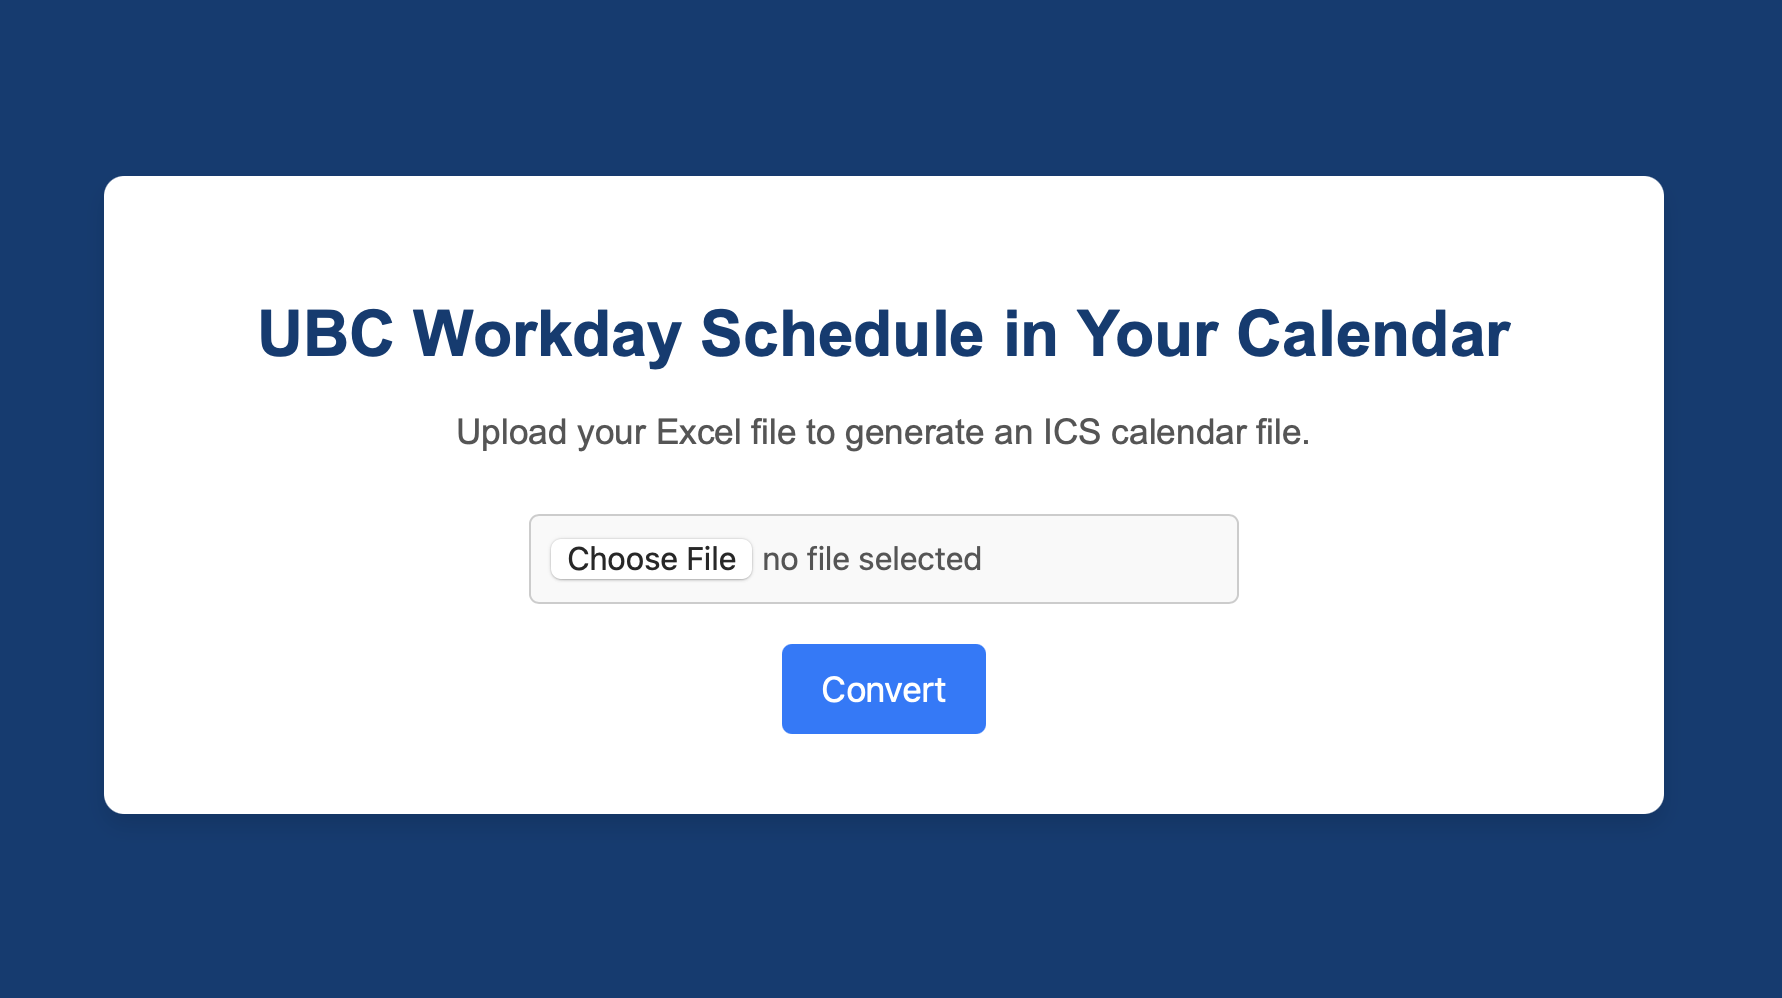
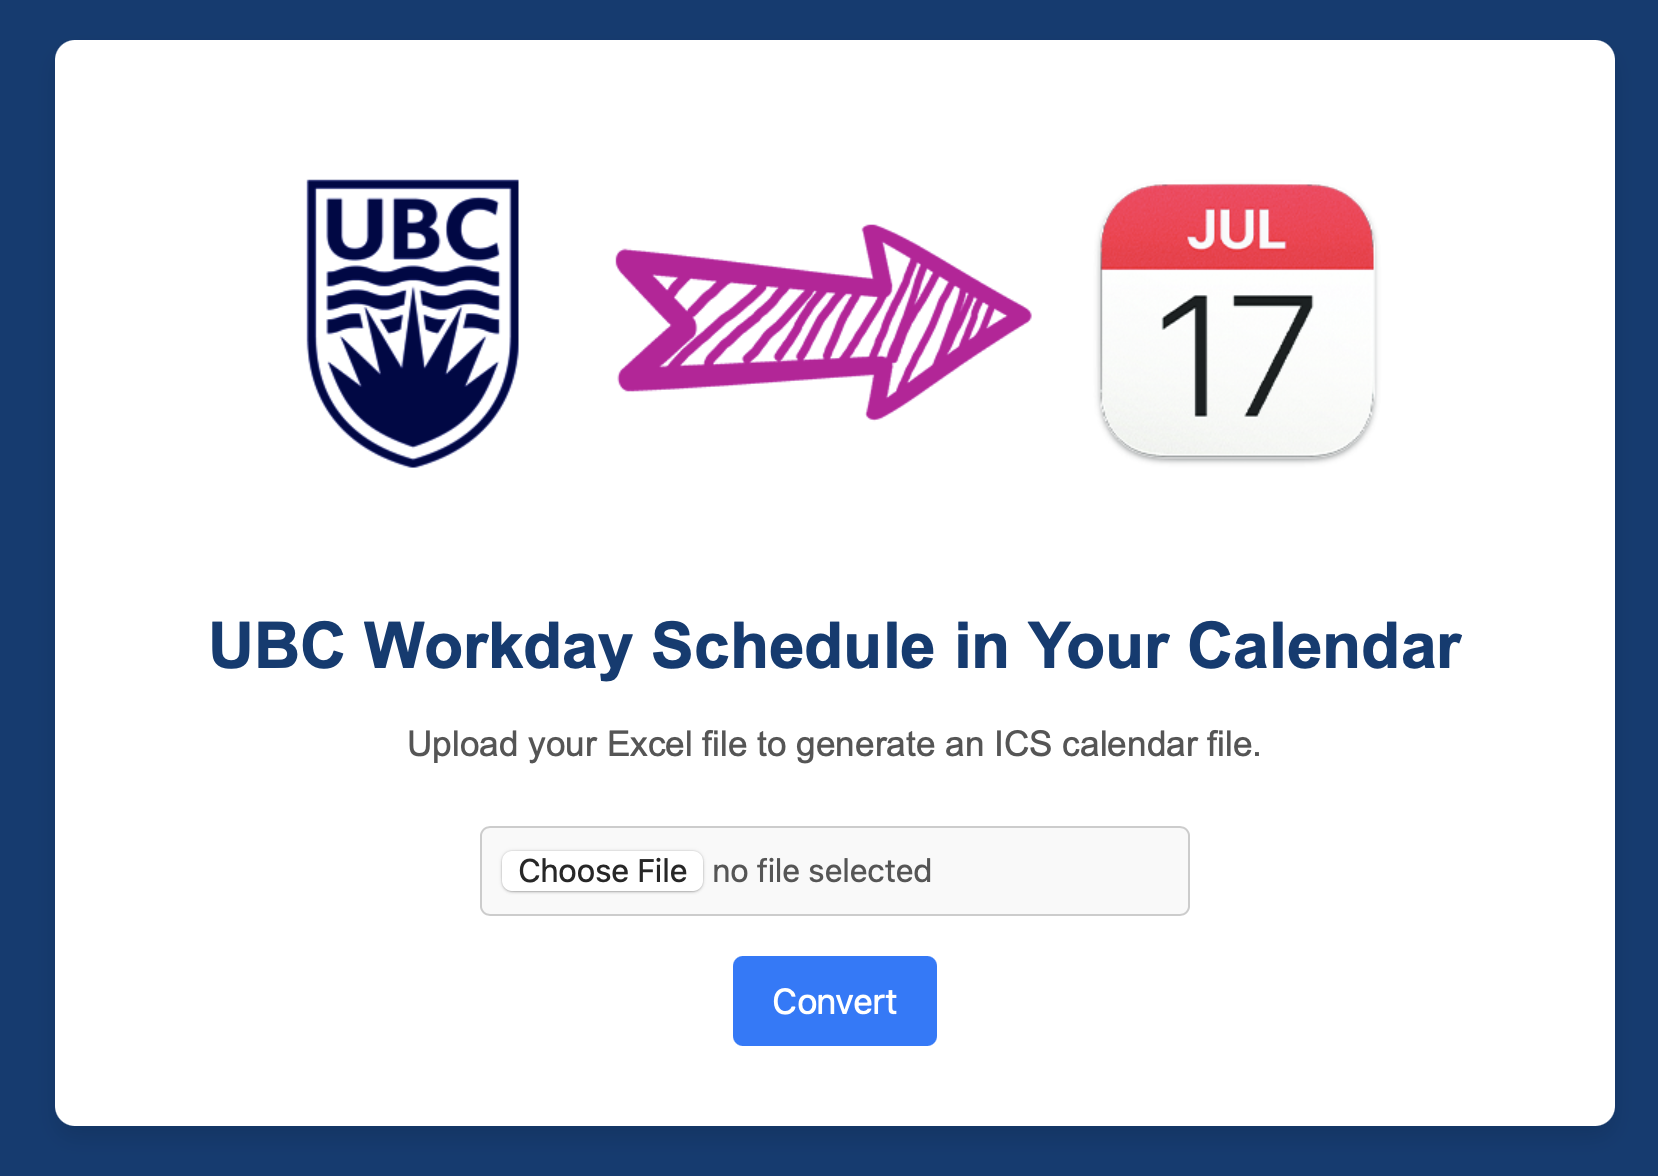
updated header image

diff --git a/templates/index.html b/templates/index.html
@@ -27,6 +27,11 @@
             color: #003c73;
         }
 
+        .container img {
+            max-width: 600px;
+            margin-bottom: 20px;
+        }
+
         h1 {
             color: #003c73;
             font-size: 2em;
@@ -94,6 +99,7 @@
 </head>
 <body>
     <div class="container">
+        <img src="{{ url_for('static', filename='images/logo.png') }}" alt="UBC Logo">
         <h1>UBC Workday Schedule in Your Calendar</h1>
         <p>Upload your Excel file to generate an ICS calendar file.</p>
         <form action="/upload" method="post" enctype="multipart/form-data">
